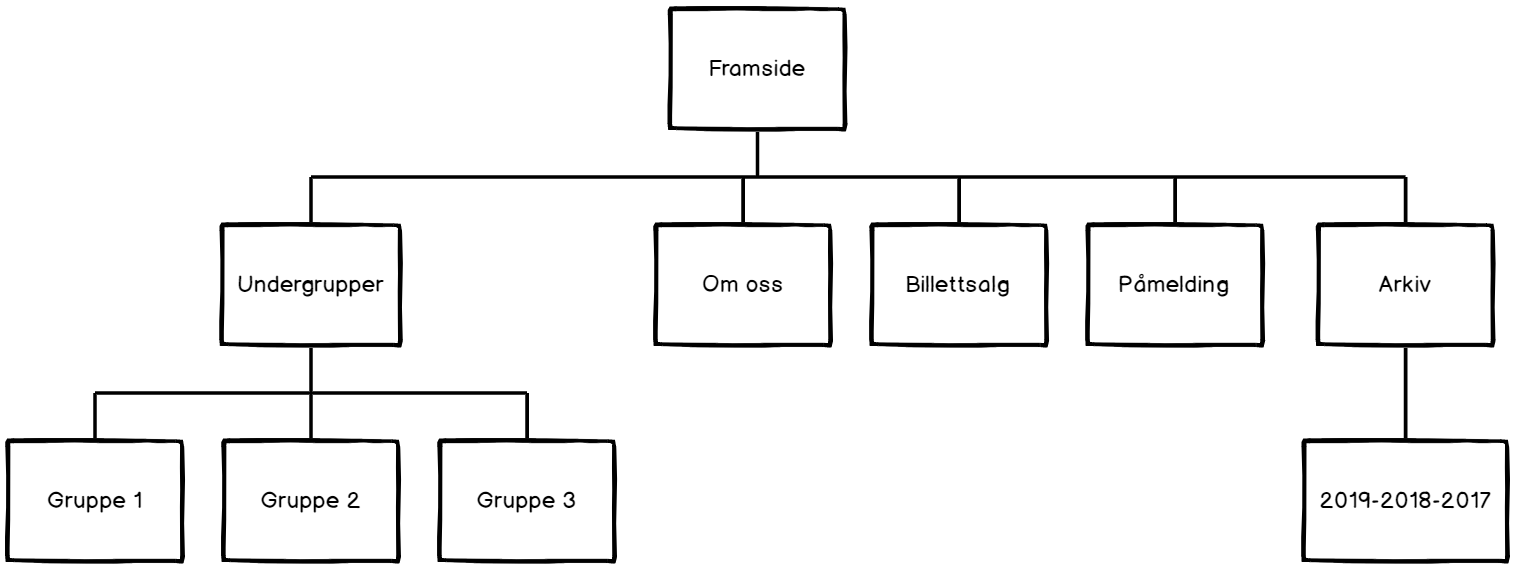
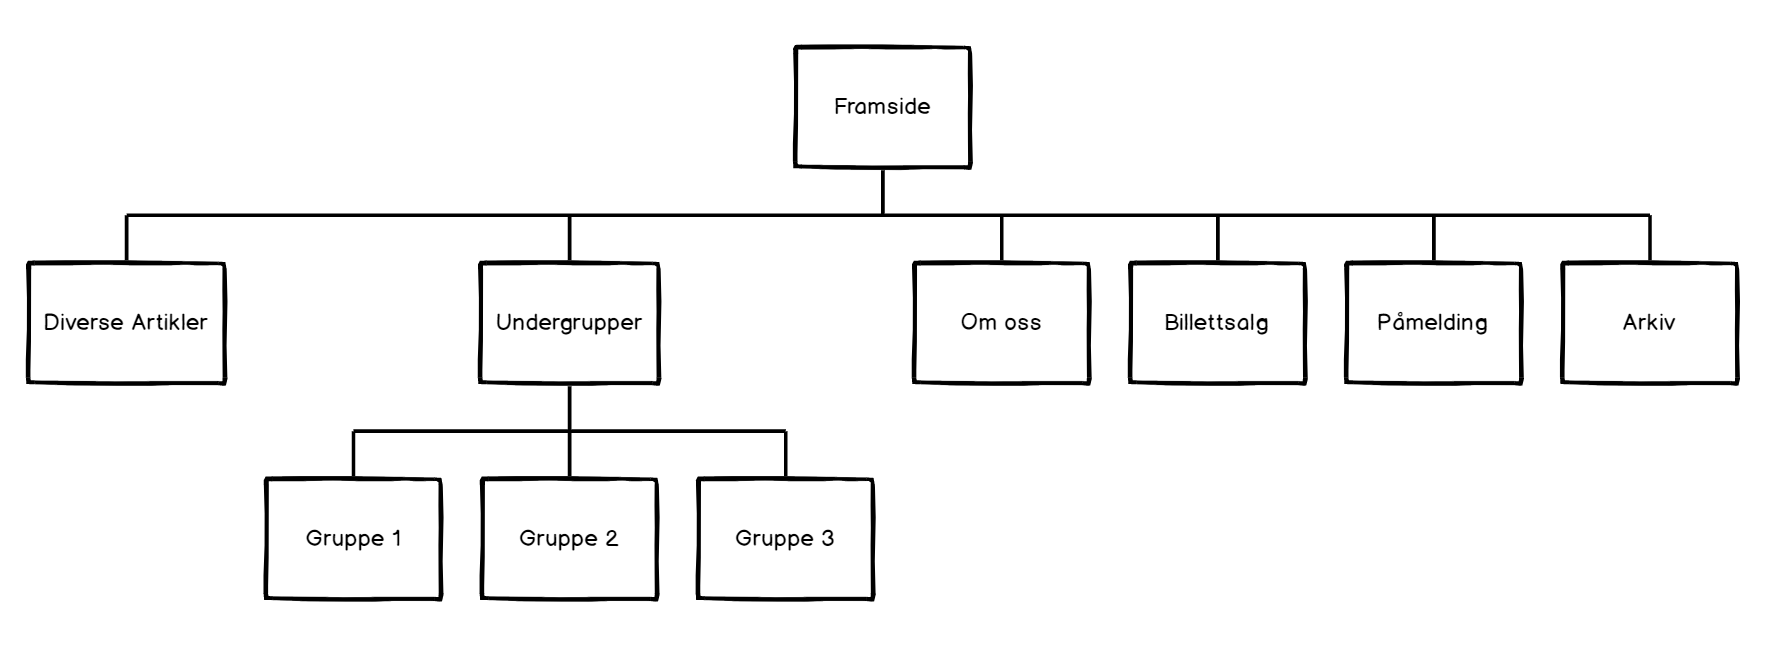
Endret på et bilde og gjorde noen småendringer i teksten så alt stemmer med det vi har tenkt

Changed region(s): [[0.0, 0.0, 1.0, 1.0], [0.403, 0.5387, 0.434, 0.5986]]

diff --git a/P2/P2_design_37.html b/P2/P2_design_37.html
@@ -43,24 +43,25 @@
       Navigasjonsstruktur
     </h2>
     <p>
-      Navigasjonsstrukturen til siden kommer til å være hierarkisk, da et av ønskene til kunden
+      Navigasjonsstrukturen til siden kommer til å være hierarkisk, da et av ønskene til klienten
       var at brukere skulle kunne nå så mange av sidene som mulig på så få klikk som mulig.
       Vi har en startside som du kommer til når du skriver in webadressen til nettsiden,
-      og denne skal du alltid kunne komme tilbake til ved å trykke på logoen til kunden.
+      og denne skal du alltid kunne komme tilbake til ved å trykke på logoen til klienten.
       Siden vil ha en navigasjonsbar som alltid ligger langs toppen av siden, så du kan alltid
       navigere fra enhver side, til enhver side (med unntak av artikler,
       de kan man bare navigere til gjennom startsiden).
-      Navigasjonsbaren vil linke til fem generasjon en undersider, og to av disse vil igjen linke
-      til flere generasjon to undersider.
-      Du kan komme deg til andre generasjons undersider enten ved å trykke på hyperlinkene til
-      første generasjons undersidener på navigasjonsbaren i hovedsiden, og deretter trykke på
-      en av linkene til andre generasjonen i denne første generasjons undersiden,
-      eller du kan gå direkte til undersiden ved å la musen sveve over linken til hovedundersiden,
-      og deretter trykke på linken til undersiden som da dukker opp.
+      Navigasjonsbaren vil linke til fem "generasjon én"-undersider, og to av disse vil igjen linke
+      til flere "generasjon to"-undersider.
+      Du kan komme deg til "generasjon to"-undersidene enten ved å trykke på hyperlinkene til
+      "generasjon en"-undersidene på navigasjonsbaren i hovedsiden, og deretter trykke på
+      en av linkene til "generasjon to"-sidene fra "generasjon en"-undersiden,
+      eller du kan gå direkte til "generasjon to"-undersiden ved å la musen sveve over linken
+      til "generasjon en"-undersiden, deretter trykke på linken som da dukker opp.
       Siden vil i tillegg til en navigasjonsbar, også ha en footer som er felles for alle sidene
-      på hjemmesiden, som viser kontaktinformasjon til kunden.
-      Logoen til kunden vil også alltid vises øverst i venstre hjørne, så man kan klikke på den
+      på hjemmesiden, som viser kontaktinformasjon til klienten.
+      Logoen til klienten vil også alltid vises øverst i venstre hjørne, så man kan klikke på den
       og alltid komme seg tilbake til startsiden.
+      <img class="Mockup" src="../Images/Sidestruktur.png" alt="Sidestruktur mockup">
     </p>
 
     <h2>
@@ -92,7 +93,7 @@
       <li>Navigasjonsbar: Knappene til de ulike undersidene endrer farge når
       musepekeren svever over de, og blir den samme rødfargen som i logoen og footeren,
       samtidig som teksten blir hvit. I tillegg hvis denne undersiden leder til
-      flere undersider vil lenker til disse dukke opp som en "rullegardin" av flere knapper
+      flere undersider vil lenker til disse dukke opp som en "rullgardin" av flere knapper
       med samme farge og tekstfarge.</li>
       <li>Banner: Et eller flere bilder på rundgang</li>
       <li>Body max-bredde: 80%</li>
@@ -103,12 +104,12 @@
     </h2>
     <h3>Startside</h3>
     <p>
-      Startsiden er siden man ender opp på når man følger linken til hjemmesiden til kunden.
+      Startsiden er siden man ender opp på når man følger linken til hjemmesiden til klienten.
       Den skal inneholde en bildeserie som banner øverst på siden,
       hvor en serie med bilder skal veksle på å vises.
       På høyre side av startsiden skal det ligge en embedded Google Calendar.
       Grunnen til at vi bruker Google Calendar er for at det skal være lett
-      for kunden å legge inn events i kalenderen. Det skal også være mulighet til å legge inn artikler
+      for klienten å legge inn events i kalenderen. Det skal også være mulighet til å legge inn artikler
       på startsiden, og nye artikler skal legge seg på toppen. Man skal også ha mulighet til å feste
       artikler på toppen av startsiden som festede innlegg. Vi er ikke helt sikre på hvordan vi skal
       gjøre dette ennå, men regner med at vi trenger noe JavaScript.
@@ -136,8 +137,7 @@
     <p>
       Disse sidene har info om de ulike undergruppene.
       De skal inneholde en beskrivelse av hva undergruppen gjør og har ansvar for.
-      De skal også inneholde et bilde av gruppelederen, et gruppebilde eller enkeltbilder av
-      gruppemedlemmene, og navn på alle medlemmene i undergruppen, eventuelt med en kort beskrivelse.
+      De skal også inneholde et bilde av gruppelederen og et gruppebilde med medlemmene.
       Navnene på de ulike gruppene er Bygg, Kostyme og Rekvisitter, Dans, Musikk og Band,
       PR og Design, Velferd, Skribent, Økonomi, og Teknikk.
       <img class="Mockup" src="../Images/Spesifikk_undergruppe.png" alt="Spesifikk Undergruppe Mockup">
@@ -179,12 +179,14 @@
       og også finne bilder til for eksempel promotering.
       Det unike med denne siden er at vi må embedde YouTube-videoer
       og lage bildeserier så man kan gå gjennom bildene fra tidligere år på en grei måte.
+      Hvis vi får det til, ønsker vi å kunne sortere bildeserier basert på hvilket
+      album de besøkende til nettsiden ønsker å se basert på en dropdown-meny eller noe lignende.
       <img class="Mockup" src="../Images/Arkiv.png" alt="Arikv mockup">
     </p>
 
     <h3>Artikkel</h3>
     <p>
-      Artikkel-sidene er generiske sider som kunden selv skal ha mulighet til å lage,
+      Artikkel-sidene er generiske sider som klienten selv skal ha mulighet til å lage,
       og de skal vises på forsiden. Man kommer til disse sidene ved å trykke på artiklene
       på startsiden, men det vil strengt tatt ikke være nødvendig å besøke dem,
       siden de vises på startsiden. Disse sidene skal inneholde tekst, bilder og evt. video.
